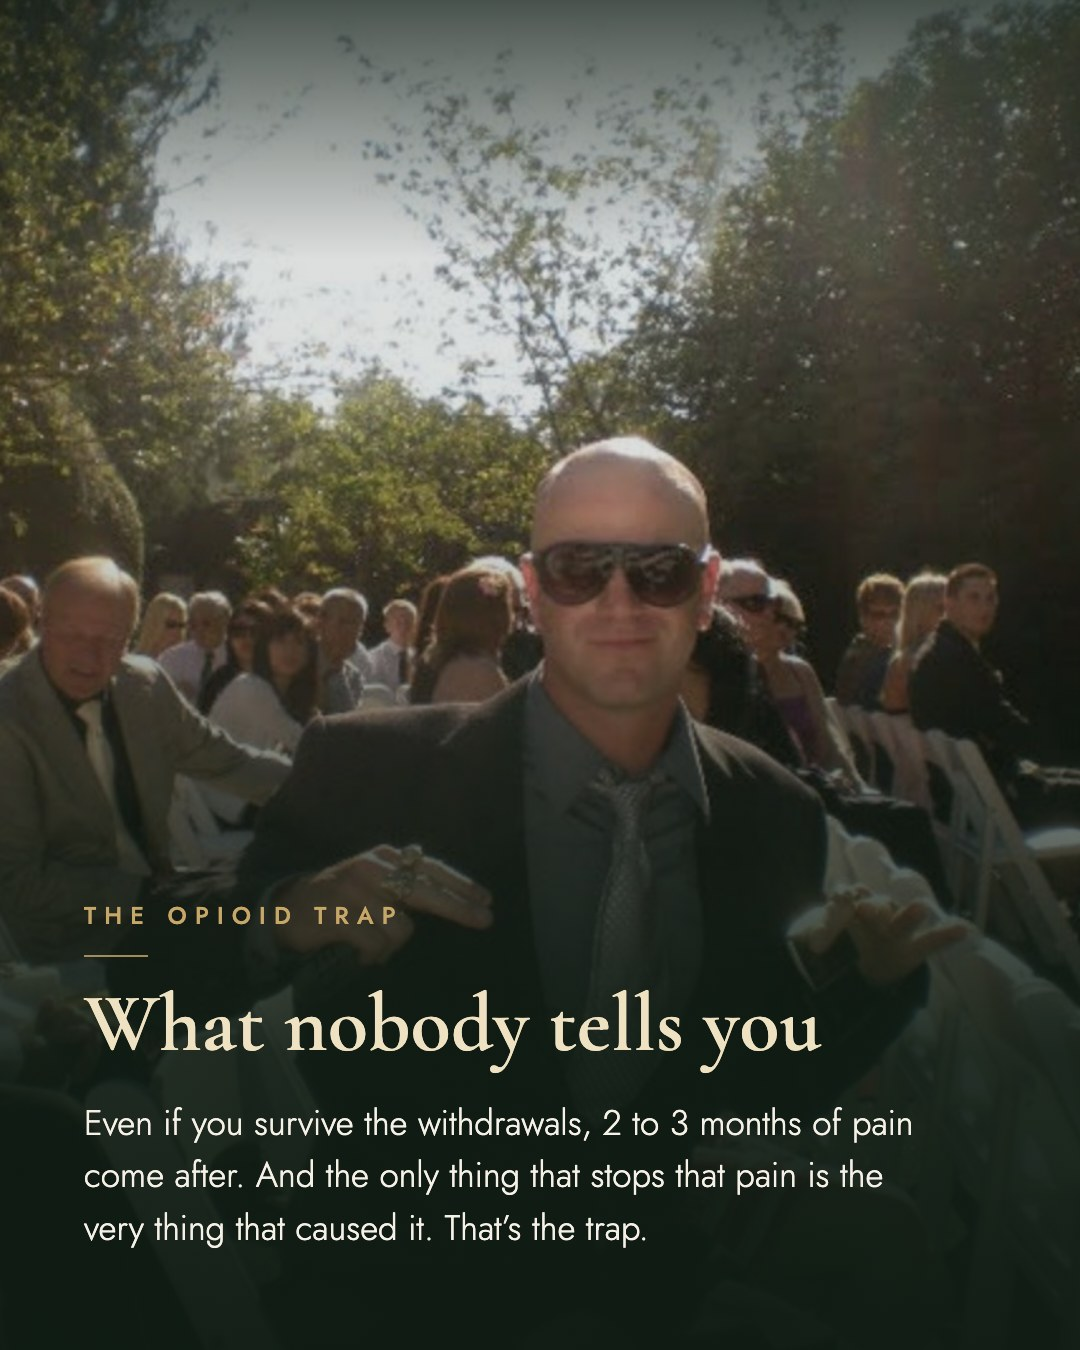
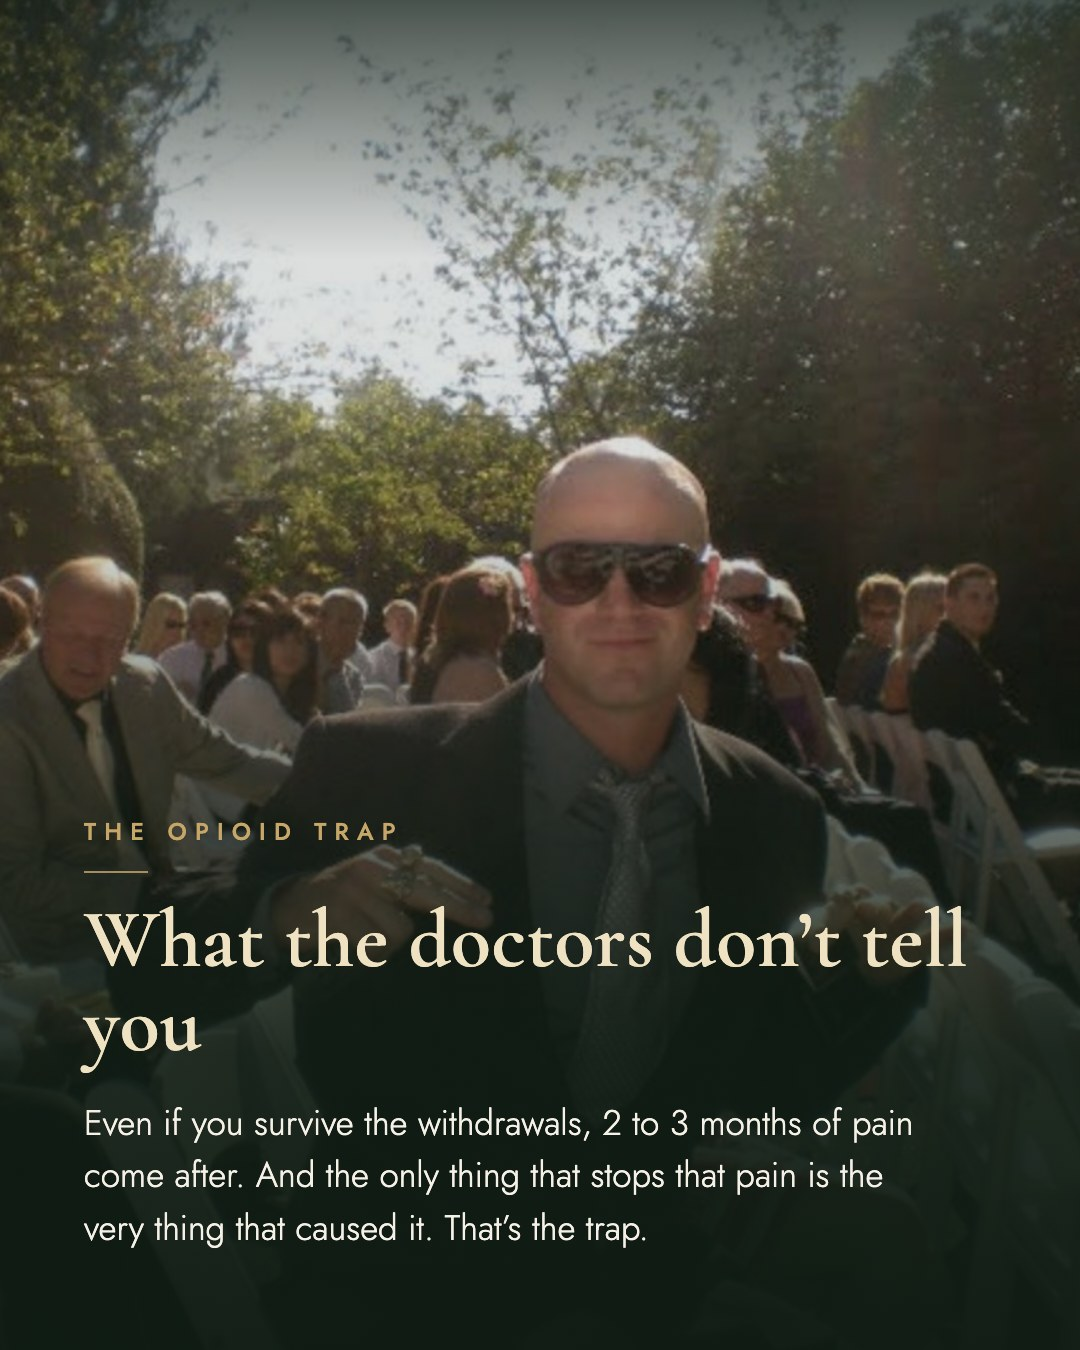
Slide 4 headline -> 'What the doctors dont tell you'; slide 9 CTA -> Tiger Soul team (not personal DMs)

Changed region(s): [[0.0611, 0.6533, 0.9167, 0.8089], [0.0917, 0.5911, 0.275, 0.6222], [0.3056, 0.5911, 0.3667, 0.6222]]

diff --git a/index.html b/index.html
@@ -358,15 +358,15 @@ const POSTS = [
     caption:"Caption should include:\n•  A short version of the story: from back pain and opiates to sacred medicine and healing others.\n•  An invitation to reach out or ask questions.",
     notes:"!! **First-draft slides are designed and ready below (9 slides).** These are a starting point built from Blaine's photos and his own words. Swap photos, tweak copy, or reorder right here.\n\nA sequenced carousel telling the story of how Blaine became a healer, in his own words. Each slide moves the story forward.\n\n# The story, slide by slide (as designed)\n• **Slide 1 (hook).** “How I became a healer” + “For 17 years, opiates owned me.”\n• **Slide 2.** Where it started: 17 years of back pain, and how it led to opiates.\n• **Slide 3.** The spiral: tolerance, withdrawals, being owned by it.\n• **Slide 4.** The opioid trap: the months of pain nobody warns you about.\n• **Slide 5.** First attempt: Ibogaine (it didn't hold, because of the environment).\n• **Slide 6.** The turning point: Ayahuasca.\n• **Slide 7.** Deeper healing: Kambo and other sacred medicines.\n• **Slide 8.** The calling: then Bufo called me.\n• **Slide 9.** Where he is now: facilitating and teaching others. Invitation to reach out.\n\n*Photos are in Blaine's original order from his doc. The words are drawn from how Blaine tells it, his voice comes first.*",
     assets:[
-      {src:"assets/carousel-healer/01.jpg?v=9", thumb:"assets/carousel-healer/thumb/01.jpg?v=9", cap:"Slide 1: Hook — How I became a healer & founder of Tiger Soul"},
-      {src:"assets/carousel-healer/02.jpg?v=9", thumb:"assets/carousel-healer/thumb/02.jpg?v=9", cap:"Slide 2: Where it started (17 years of pain)"},
-      {src:"assets/carousel-healer/03.jpg?v=9", thumb:"assets/carousel-healer/thumb/03.jpg?v=9", cap:"Slide 3: The spiral (it owned me)"},
-      {src:"assets/carousel-healer/04.jpg?v=9", thumb:"assets/carousel-healer/thumb/04.jpg?v=9", cap:"Slide 4: The opioid trap"},
-      {src:"assets/carousel-healer/05.jpg?v=9", thumb:"assets/carousel-healer/thumb/05.jpg?v=9", cap:"Slide 5: Ibogaine (first attempt)"},
-      {src:"assets/carousel-healer/06.jpg?v=9", thumb:"assets/carousel-healer/thumb/06.jpg?v=9", cap:"Slide 6: Ayahuasca (turning point)"},
-      {src:"assets/carousel-healer/07.jpg?v=9", thumb:"assets/carousel-healer/thumb/07.jpg?v=9", cap:"Slide 7: Kambo & sacred medicine"},
-      {src:"assets/carousel-healer/08.jpg?v=9", thumb:"assets/carousel-healer/thumb/08.jpg?v=9", cap:"Slide 8: Then Bufo called me"},
-      {src:"assets/carousel-healer/09.jpg?v=9", thumb:"assets/carousel-healer/thumb/09.jpg?v=9", cap:"Slide 9: Facilitating now + invitation"}
+      {src:"assets/carousel-healer/01.jpg?v=10", thumb:"assets/carousel-healer/thumb/01.jpg?v=10", cap:"Slide 1: Hook — How I became a healer & founder of Tiger Soul"},
+      {src:"assets/carousel-healer/02.jpg?v=10", thumb:"assets/carousel-healer/thumb/02.jpg?v=10", cap:"Slide 2: Where it started (17 years of pain)"},
+      {src:"assets/carousel-healer/03.jpg?v=10", thumb:"assets/carousel-healer/thumb/03.jpg?v=10", cap:"Slide 3: The spiral (it owned me)"},
+      {src:"assets/carousel-healer/04.jpg?v=10", thumb:"assets/carousel-healer/thumb/04.jpg?v=10", cap:"Slide 4: The opioid trap"},
+      {src:"assets/carousel-healer/05.jpg?v=10", thumb:"assets/carousel-healer/thumb/05.jpg?v=10", cap:"Slide 5: Ibogaine (first attempt)"},
+      {src:"assets/carousel-healer/06.jpg?v=10", thumb:"assets/carousel-healer/thumb/06.jpg?v=10", cap:"Slide 6: Ayahuasca (turning point)"},
+      {src:"assets/carousel-healer/07.jpg?v=10", thumb:"assets/carousel-healer/thumb/07.jpg?v=10", cap:"Slide 7: Kambo & sacred medicine"},
+      {src:"assets/carousel-healer/08.jpg?v=10", thumb:"assets/carousel-healer/thumb/08.jpg?v=10", cap:"Slide 8: Then Bufo called me"},
+      {src:"assets/carousel-healer/09.jpg?v=10", thumb:"assets/carousel-healer/thumb/09.jpg?v=10", cap:"Slide 9: Facilitating now + invitation"}
     ] },
 
   { date:"2026-08-13", pillar:"reflection", title:"Why I Became a Bufo Facilitator",
